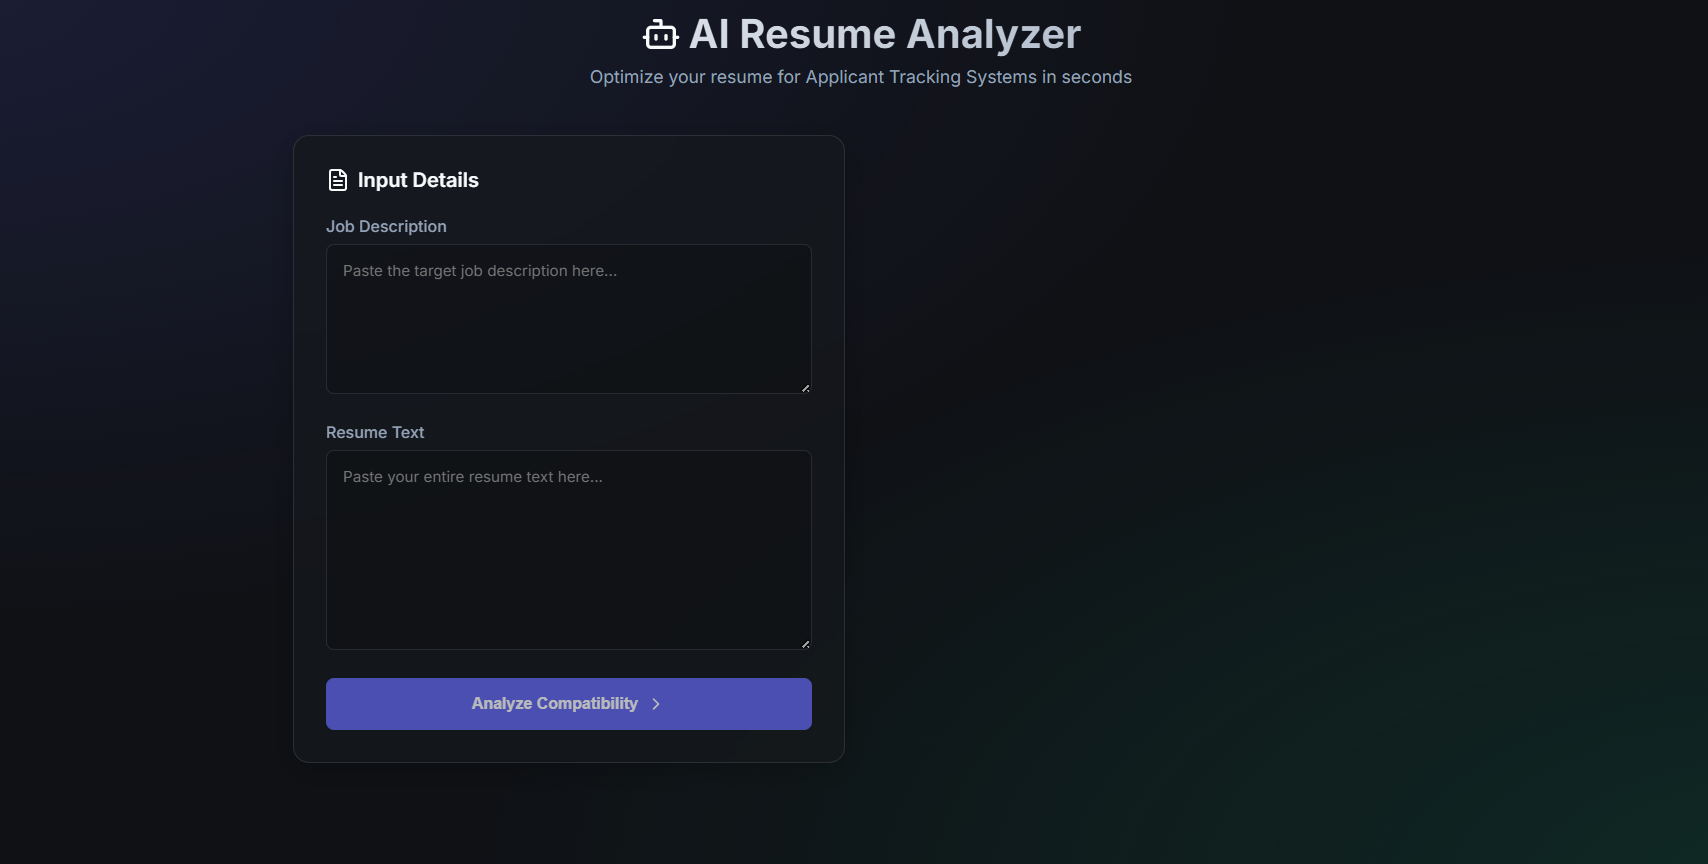
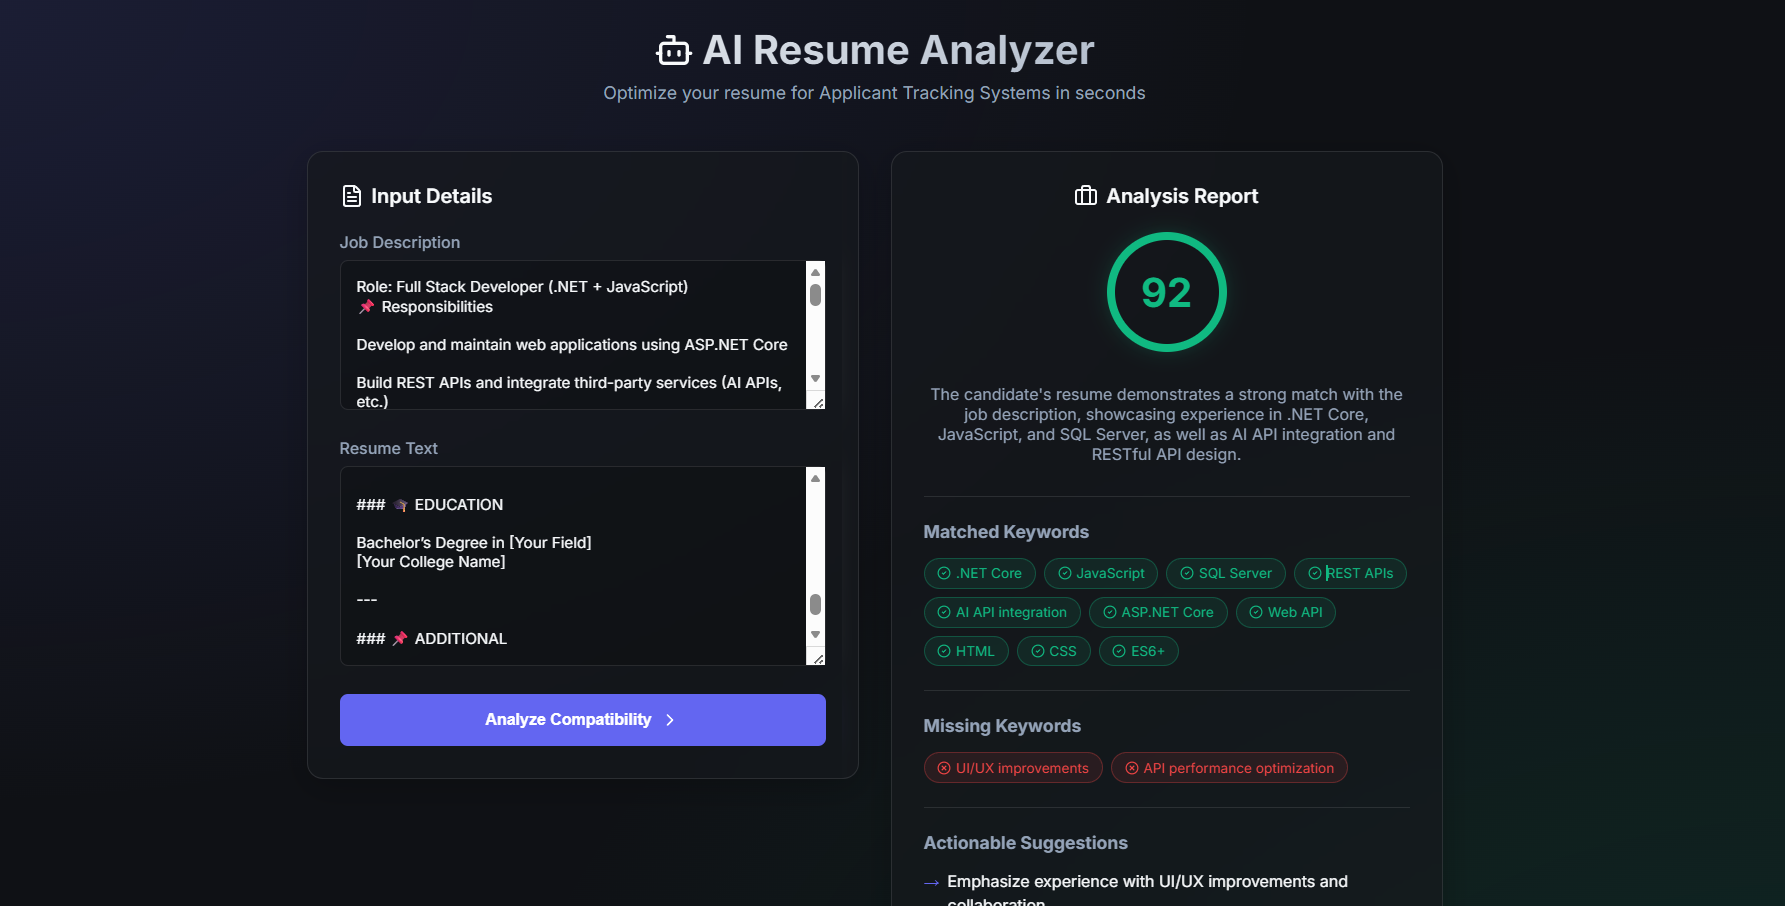
ui changes in readme updated

diff --git a/README.md b/README.md
@@ -20,16 +20,14 @@ AI Resume Analyzer is a powerful tool designed to bridge the gap between job see
 
 ## 🖼 UI Demonstration
 
-### Landing View
-![Hero Image](./frontend/src/assets/hero.png)
 
-### Empty Analyzer State
+### Landing View \ Empty Analyzer State
 ![Empty Analyzer State](./frontend/src/assets/ui-empty-state.png)
 
-### Full Analyzer View
+### Full Analyzer View & Analysis Report
 ![Full Analyzer View](./frontend/src/assets/ui-full-analyzer-view.png)
 
-### Analysis Report
+
 ![Analysis Report](./frontend/src/assets/ui-analysis-report.png)
 
 ---
